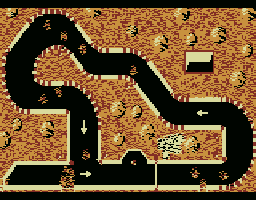
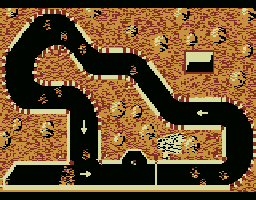
Slicks: Minor fixes to NES version (interface, navigation, sfx)

Changed region(s): [[0.0938, 0.9, 0.9062, 0.96], [0.0, 0.93, 0.0625, 0.96]]

diff --git a/projects/slicks/src/game.c b/projects/slicks/src/game.c
@@ -138,13 +138,13 @@ void GameReset()
 	ResetLineUp();
 	
     // Reset Players
+	txtY = TXT_ROWS-1;
     for (i=0; i<MAX_PLAYERS; ++i) {        
         // Reset SFX
         EngineSFX(i, 0);
 		
 		// Reset Lap count
-		txtX = (i+2)*8u-3;
-		txtY = TXT_ROWS-1;
+		txtX = (SLOT_COL1+SLOT_OFFST) + SLOT_WIDTH*i;
 		PrintStr("  ");
 	
 		// Reset sprite
@@ -267,12 +267,12 @@ void GameInit(const char* map)
     // Some extra logics depending on the game mode
 	if (gameMode == MODE_LOCAL) {
         // Setup players
+		txtY = TXT_ROWS-1;
         for (i=0; i<MAX_PLAYERS; ++i) {
             // Print player numbers in score board
             if (controlIndex[i]) {
                 inkColor = inkColors[i]; 
 				txtX = SLOT_COL1 + SLOT_WIDTH*i;
-				txtY = TXT_ROWS-1;
 			#if defined __ORIC__
 				txtX--; SetAttributes(inkColor); txtX++; 
 			#endif					

diff --git a/projects/slicks/src/interface.c b/projects/slicks/src/interface.c
@@ -267,8 +267,8 @@ void PrintLap(unsigned char i)
 {
 	// Set cursor	
 	if (cars[i].lap > 0) { 
-		txtX = (SLOT_COL1+5) + SLOT_WIDTH*i; 
 		txtY = TXT_ROWS-1;
+		txtX = (SLOT_COL1+SLOT_OFFST) + SLOT_WIDTH*i; 
 		inkColor = inkColors[i]; 
 		PrintNum(cars[i].lap);
 	}
@@ -285,10 +285,10 @@ void PrintRace()
 #endif	
 	
 	// Print laps
-	inkColor = INK_LAPS; 
 #if defined(__NES__)
 	txtX = 22; txtY = 0; 
 #else
+	inkColor = INK_LAPS; 
 	txtX = 26; txtY = 0; 
 #endif	
 	PrintNum(lapGoal);
@@ -724,7 +724,7 @@ void MenuPlayer(unsigned char i)
 	PrintBlanks(MENU_WID-6, 1);
 	
 	// Print Characters
-#if defined __SHR__
+#if defined(__NES__) || defined __SHR__
 	inkColor = WHITE;
 #else
 	inkColor = inkColors[i];

diff --git a/projects/slicks/src/sfx.c b/projects/slicks/src/sfx.c
@@ -25,6 +25,12 @@
 	#define VOLUME_HIGH   30
 #endif
 
+#if defined(__NES__)
+	#define SFX_OFFSET 8
+#else
+	#define SFX_OFFSET 0
+#endif	
+
 unsigned char sfx[4], frq[4], vol[4];
 
 void BleepSFX(unsigned char pitch)
@@ -40,7 +46,7 @@ void BumpSFX(void)
 void EngineSFX(unsigned char index, unsigned int rpm)
 {	
 	sfx[index] = SFX_ENGINE;
-	frq[index] = (rpm*17)/80u + index*6;
+	frq[index] = (rpm*17)/80u + index*6 + SFX_OFFSET;
 	vol[index] = VOLUME_LOW;
 }
 

diff --git a/projects/slicks/src/definitions.h b/projects/slicks/src/definitions.h
@@ -57,8 +57,10 @@
 #define SLOT_COL1 8
 #if defined __NES__
   #define SLOT_WIDTH 6
+  #define SLOT_OFFST 4
 #else
   #define SLOT_WIDTH 8
+  #define SLOT_OFFST 5
 #endif	
 
 // Platform specific colors
@@ -105,7 +107,7 @@
 	#define INK_TAB		 GREEN
 	#define INK_HIGHLT	 BLACK
 	#define PAPER_HIGHLT YELLOW
-	#define SCORES_COL   	 11
+	#define SCORES_COL   	  7
 	#define SCORES_ROW   	  7
 	#define PAUSE_COL 		  7
 	#define PAUSE_LOCAL_ROW   6
